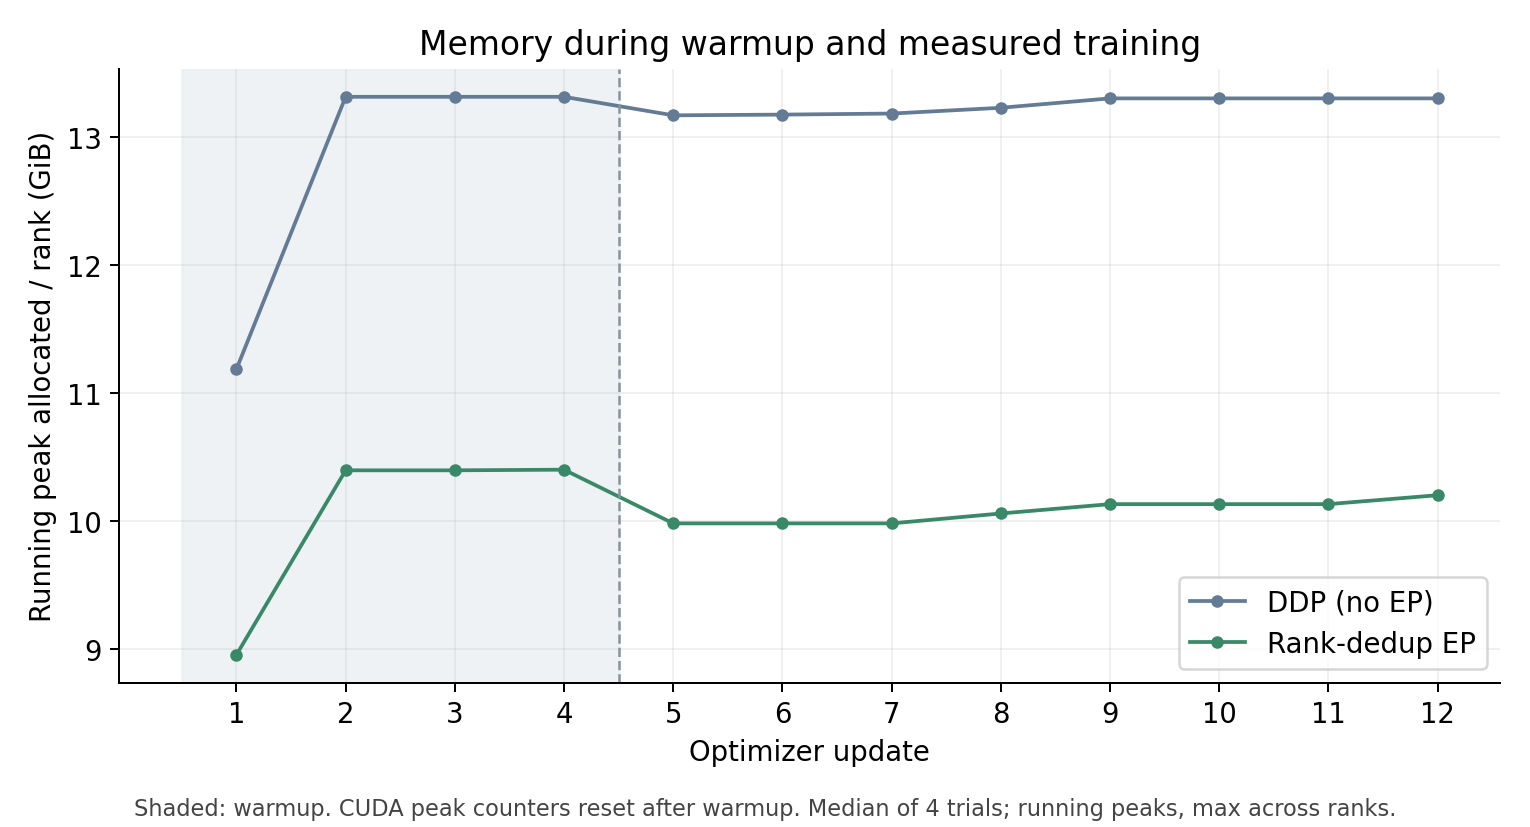
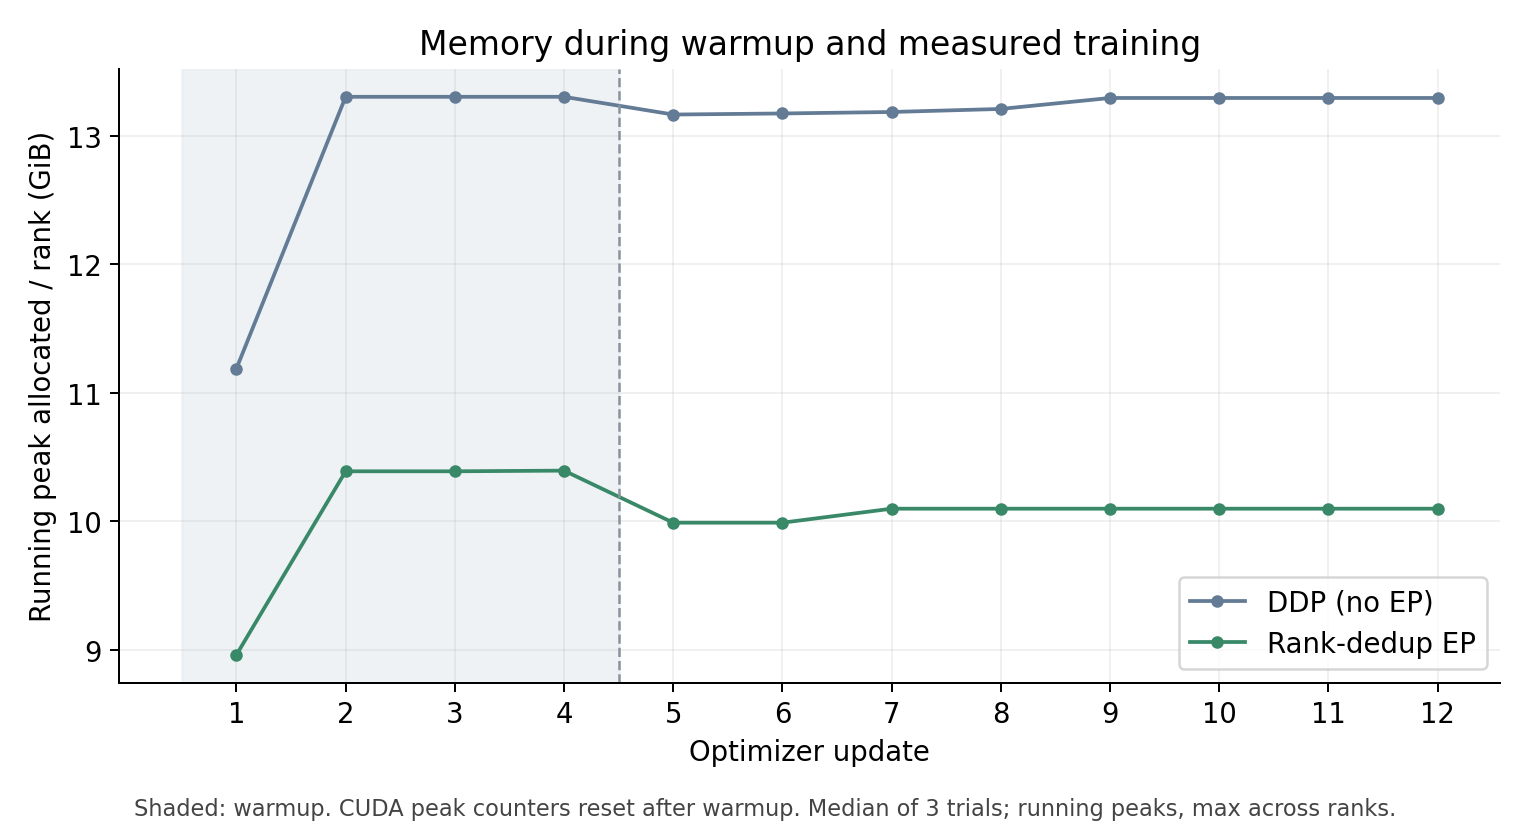
分桶同步 EP 梯度并批量计算全局裁剪

diff --git a/trainer/trainer_utils.py b/trainer/trainer_utils.py
@@ -81,21 +81,49 @@ def sync_ep_shared_parameters(model, group=None):
 
 @torch.no_grad()
 def sync_ep_gradients(model, group=None):
-    """同步共享参数梯度，并对只在本 rank 保存的 Expert 梯度做全局平均。"""
+    """分桶同步共享梯度；本地 Expert 梯度只做全局平均。"""
     if not getattr(model.config, 'use_ep', False):
         return
     group = group if group is not None else dist.group.WORLD
     world_size = dist.get_world_size(group)
-    for name, param in model.named_parameters():
-        if param.grad is None:
+    bucket_bytes = 16 * 1024 * 1024
+
+    def reduce_bucket(grads):
+        # 大参数单独通信，避免额外复制整个 embedding / head。
+        flat = grads[0].contiguous() if len(grads) == 1 else torch.cat([g.reshape(-1) for g in grads])
+        dist.all_reduce(flat, op=dist.ReduceOp.SUM, group=group)
+        flat.div_(world_size)
+        if len(grads) > 1:
+            views = [part.view_as(g) for part, g in zip(flat.split([g.numel() for g in grads]), grads)]
+            torch._foreach_copy_(grads, views)
+        elif flat is not grads[0]:
+            grads[0].copy_(flat)
+
+    for (_, _, expert), grads in _ep_gradient_groups(model).items():
+        if expert:
+            # dispatch 已汇集所有 Rank 的 Token，不能再次 all_reduce Expert。
+            torch._foreach_div_(grads, world_size)
             continue
-        if is_ep_expert_parameter(name):
-            # 每个本地 Expert 已经通过 dispatch 收到了所有 rank 的 Token，
-            # 参数梯度是各 rank loss 梯度之和，只需除以 EP world size。
-            param.grad.div_(world_size)
-        else:
-            dist.all_reduce(param.grad, op=dist.ReduceOp.SUM, group=group)
-            param.grad.div_(world_size)
+        bucket, size = [], 0
+        for grad in grads:
+            nbytes = grad.numel() * grad.element_size()
+            if bucket and size + nbytes > bucket_bytes:
+                reduce_bucket(bucket)
+                bucket, size = [], 0
+            bucket.append(grad)
+            size += nbytes
+        if bucket:
+            reduce_bucket(bucket)
+
+
+def _ep_gradient_groups(model):
+    """按设备、dtype 和专家归属分组；保持参数遍历顺序。"""
+    groups = {}
+    for name, param in model.named_parameters():
+        if param.grad is not None:
+            key = (param.grad.device, param.grad.dtype, is_ep_expert_parameter(name))
+            groups.setdefault(key, []).append(param.grad)
+    return groups
 
 
 @torch.no_grad()
@@ -105,20 +133,20 @@ def clip_ep_grad_norm_(model, max_norm, group=None):
     world_size = dist.get_world_size(group)
     device = next(model.parameters()).device
     local_squared_norm = torch.zeros((), dtype=torch.float32, device=device)
-    for name, param in model.named_parameters():
-        if param.grad is None:
-            continue
-        squared_norm = param.grad.detach().float().pow(2).sum()
+    groups = _ep_gradient_groups(model)
+    for (_, dtype, expert), grads in groups.items():
+        # 与原实现一样以 FP32 计算范数，避免 BF16 范数先舍入。
+        norm_grads = [g.float() for g in grads] if dtype == torch.float64 else grads
+        squared_norm = torch.stack(torch._foreach_norm(norm_grads, 2, dtype=torch.float32)).square().sum()
         # 共享梯度在每个 rank 都相同，求全局范数时只计算一份。
-        if not is_ep_expert_parameter(name):
+        if not expert:
             squared_norm.div_(world_size)
         local_squared_norm.add_(squared_norm)
     dist.all_reduce(local_squared_norm, op=dist.ReduceOp.SUM, group=group)
     total_norm = local_squared_norm.sqrt()
     clip_coef = (max_norm / (total_norm + 1e-6)).clamp(max=1.0)
-    for param in model.parameters():
-        if param.grad is not None:
-            param.grad.mul_(clip_coef)
+    for (device, _, _), grads in groups.items():
+        torch._foreach_mul_(grads, clip_coef.to(device))
     return total_norm
 
 

diff --git a/readme_ep.md b/readme_ep.md
@@ -51,7 +51,9 @@ python -m torch.distributed.run --standalone --nproc_per_node=2 train_pretrain.p
 
 调整专家数 / Top-K 使用对应参数；Top-K 大于 2 时选择 `compact`。全量微调沿用 `trainer/train_full_sft.py --use_ep` 的原生 EP 支持。模型 compile 使用原 `--use_compile` 开关；动态 splits 和专家空分支存在编译边界，不能将其称为完整 EP 的 fullgraph 捕获。
 
-训练在优化器更新时同步共享参数梯度，并进行全局梯度裁剪。保存完整 MoE 权重，同时为各 Rank 保存独立前缀的恢复状态；续训须匹配专家数、Top-K 和 EP 拓扑。优化训练条件不满足时显式报错，禁止静默回退。
+训练在优化器更新时同步共享参数梯度：按设备和 dtype 分组，以 16 MiB 为桶容量合并 All-Reduce，超大参数单独通信；本地专家梯度只除以 EP Rank 数。全局裁剪批量计算 FP32 范数并缩放梯度，共享参数计一份、专家参数计入各 Rank 的分片。归约顺序可能带来 FP32 末位差异，专家计算与 BF16 autocast 规则保持原样。
+
+保存完整 MoE 权重，同时为各 Rank 保存独立前缀的恢复状态；续训须匹配专家数、Top-K 和 EP 拓扑。优化训练条件不满足时显式报错，禁止静默回退。
 
 ## 推理与 API
 
@@ -80,14 +82,14 @@ controller.uninstall()
 
 两张 RTX 4090D，hidden=768、8 层、6 专家 Top-2；每 Rank batch=32、seq=340、梯度累积=8，AdamW、学习率 5e-4、裁剪 1。FP32 参数和优化器状态，BF16 autocast，原 PyTorch 专家；计时关闭 compile / profile。两方案使用相同初值、输入、辅助损失和每次更新一次的梯度同步。
 
-4 轮交替测量，每轮 4 次预热、8 次正式更新。吞吐统计有效移位标签 Token；吞吐和每次更新时间分别取中位数，峰值显存取测量区间跨 Rank / 轮次的最大值。
+3 轮交替测量，每轮 4 次预热、8 次正式更新。吞吐统计有效移位标签 Token；吞吐和每次更新时间分别取中位数，峰值显存取测量区间跨 Rank / 轮次的最大值。
 
 | 方案 | 有效 Token/s | 秒 / 更新 | 峰值 allocated / Rank | 峰值 reserved / Rank |
 | --- | ---: | ---: | ---: | ---: |
-| 无 EP DDP | 73,084 | 1.4694 | 13.330 GiB | 14.602 GiB |
-| 最新 Top-2 去重 EP | 72,813 | 1.4789 | 10.332 GiB | 13.350 GiB |
+| 无 EP DDP | 73,327 | 1.4566 | 13.323 GiB | 14.543 GiB |
+| 最新 Top-2 去重 EP | 72,515 | 1.4739 | 10.151 GiB | 13.348 GiB |
 
-EP 吞吐约为 DDP 的 **99.63%**，峰值 allocated 降低 **22.50%**，主要来自专家与优化器分片。当前证明了显存收益，尚未证明缩短训练时间。该结果是短训练窗口，排除初始化、预热和保存，不能作为完整两轮训练耗时或模型质量结论。
+EP 吞吐约为 DDP 的 **98.89%**，峰值 allocated 降低 **23.80%**，主要来自专家与优化器分片。同轮旧 EP 对照中，分桶同步从 7.214 ms 降到 6.314 ms，批量裁剪从 3.046 ms 降到 1.906 ms，分别降低 12.48% / 37.43%；整体吞吐基本持平（−0.06%）。局部开销减少尚未体现为整网加速。该结果是短训练窗口，排除初始化、预热和保存，不能作为完整两轮训练耗时或模型质量结论。
 
 性能基线使用当前代码的无 EP DDP 路径，统一设为原非 EP 的 `local_topk_sum` 辅助损失。代码兼容检查另外直接读取 `89d674b` 的原模型；两种基线分别对应性能测量和源码回归。正式训练入口继续保留已有辅助损失默认值。
 
@@ -100,5 +102,7 @@ EP 吞吐约为 DDP 的 **99.63%**，峰值 allocated 降低 **22.50%**，主要
 整理前的 CUDA 验收包含：55 组单算子值 / 梯度边界、Compute Sanitizer 的 memcheck / racecheck / synccheck、两 Rank 的空输入及 6 / 8 专家边界、FP32 梯度及两次 AdamW 更新、已训练 8 层模型的 Prefill / Decode 与生成对拍。16 个性能窗口无非有限 loss / 梯度或优化 EP 回退。
 
 本次目录整理验证默认非 EP 的 CPU FP32 Dense、MoE Top-1 / Top-2 与 `89d674b` 的输出、损失、梯度逐位一致，并核对最新优化路径的计算逻辑未改变。BF16 多次更新轨迹的严格重复性和模型质量需要独立评估。
+
+梯度优化验收：本地与服务器 CPU 回归各 13 项通过；每 Rank 的 24 类 CUDA 梯度契约与 10 类路由边界通过。两层模型新旧 EP 同步梯度最大差异为 0，范数差异不超过 1.20e-7，两次 AdamW 更新后的参数差异不超过 7.46e-9；两种 EP 也分别通过无 EP DDP 对照。9 个 BF16 性能窗口损失与梯度范数均有限，优化 EP 回退均为 0，选定 GPU 无其他任务混入。
 
 当前动态通信仍有 CPU 读取 counts 的同步；未实现通信与计算重叠。后续收益需在相同模型、数据、精度、损失及同步条件下重新验收。
